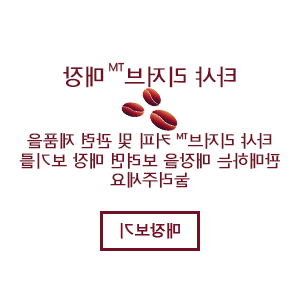
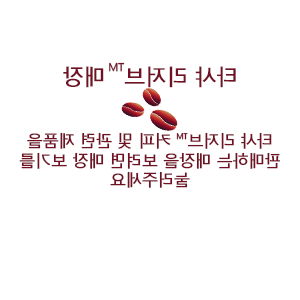
tasha

Changed region(s): [[0.33, 0.69, 0.69, 0.84]]

diff --git a/script/script.js b/script/script.js
@@ -25,12 +25,12 @@ function slide(){
 }
 
 $(function(){
-    $(".tc").css({"margin-left":"-1000px","opacity":"0"});
+    $(".today").css({"margin-left":"-1000px","opacity":"0"});
     $(".bean").css({"margin-right":"-2000px","opacity":"0"});
 
     $(window).on("scroll",function(){
-        if($(window).scrollTop()>100){
-            $(".tc").animate({marginLeft:"0",opacity:"1"},500,"linear",function(){
+        if($(window).scrollTop()>80){
+            $(".today").animate({marginLeft:"0",opacity:"1"},600,"linear",function(){
               
             });
             $(".bean").animate({marginRight:"0",opacity:"1"},700,"linear",function(){
@@ -41,11 +41,11 @@ $(function(){
 });
 
 $(function(){
-    $(".inner_2").css({"opacity":"0","margin-right":"-2000px"});
+    $(".inner").css({"opacity":"0","margin-right":"-2000px"});
 
     $(window).on("scroll",function(){
-        if($(window).scrollTop()>1500){
-            $(".inner_2").animate({marginRight:"0",opacity:"1"},1200,"linear")
+        if($(window).scrollTop()>1600){
+            $(".inner").animate({marginRight:"0",opacity:"1"},600,"linear")
             
         }
     });

diff --git a/css/style.css b/css/style.css
@@ -192,7 +192,7 @@ header{
 #content2{
     width: 100%;
     height: 0;
-    padding-top: calc(300/1200*100%);
+    padding-top: calc(400/1200*100%);
     background: url(image/bg2.png) no-repeat;
     background-size: cover;
     display: flex;
@@ -208,7 +208,7 @@ header{
     position: relative;
     top: -430px;
 }
-.tm>img{
+.tm img{
     width: 100%;
     height: auto;
 }
@@ -220,6 +220,9 @@ header{
 .tm2{
     opacity: 0;
     position: relative;
+    display: flex;
+    flex-direction: column;
+    align-items: center;
 }
 .tm:hover .tm1{
     opacity: 0;
@@ -229,6 +232,26 @@ header{
     transform: rotateY(180deg);
     transition: all 0.8s;
      opacity: 1;
+}
+.button_2{
+    width: 100px;
+    height: auto;
+    color:  #721124;
+    border: 3px solid #721124;
+    position: absolute;
+    bottom: 15%;
+    font-size: 2rem;
+    text-align: center;
+    padding: 2% 5%;
+}
+.tm:hover .tm2>.button_2{
+     transform: rotateY(180deg);
+    transition: all 0.8s;
+}
+.button_2:hover{
+    background-color:  #721124;
+    color: white;
+     transition: all 0.8s;
 }
 #content3{
     width: 100%;

diff --git a/index.html b/index.html
@@ -79,9 +79,9 @@
                <img src="images/tasha_5.png" alt="">
                </div>
                 <div class="tm2">
-               <img src="images/tasha_3_1.png" alt="">
+               <img src="images/tasha_3_2.png" alt="">
                <div class="button_2">
-
+                   자세히
                </div>
                </div>
                </div>
